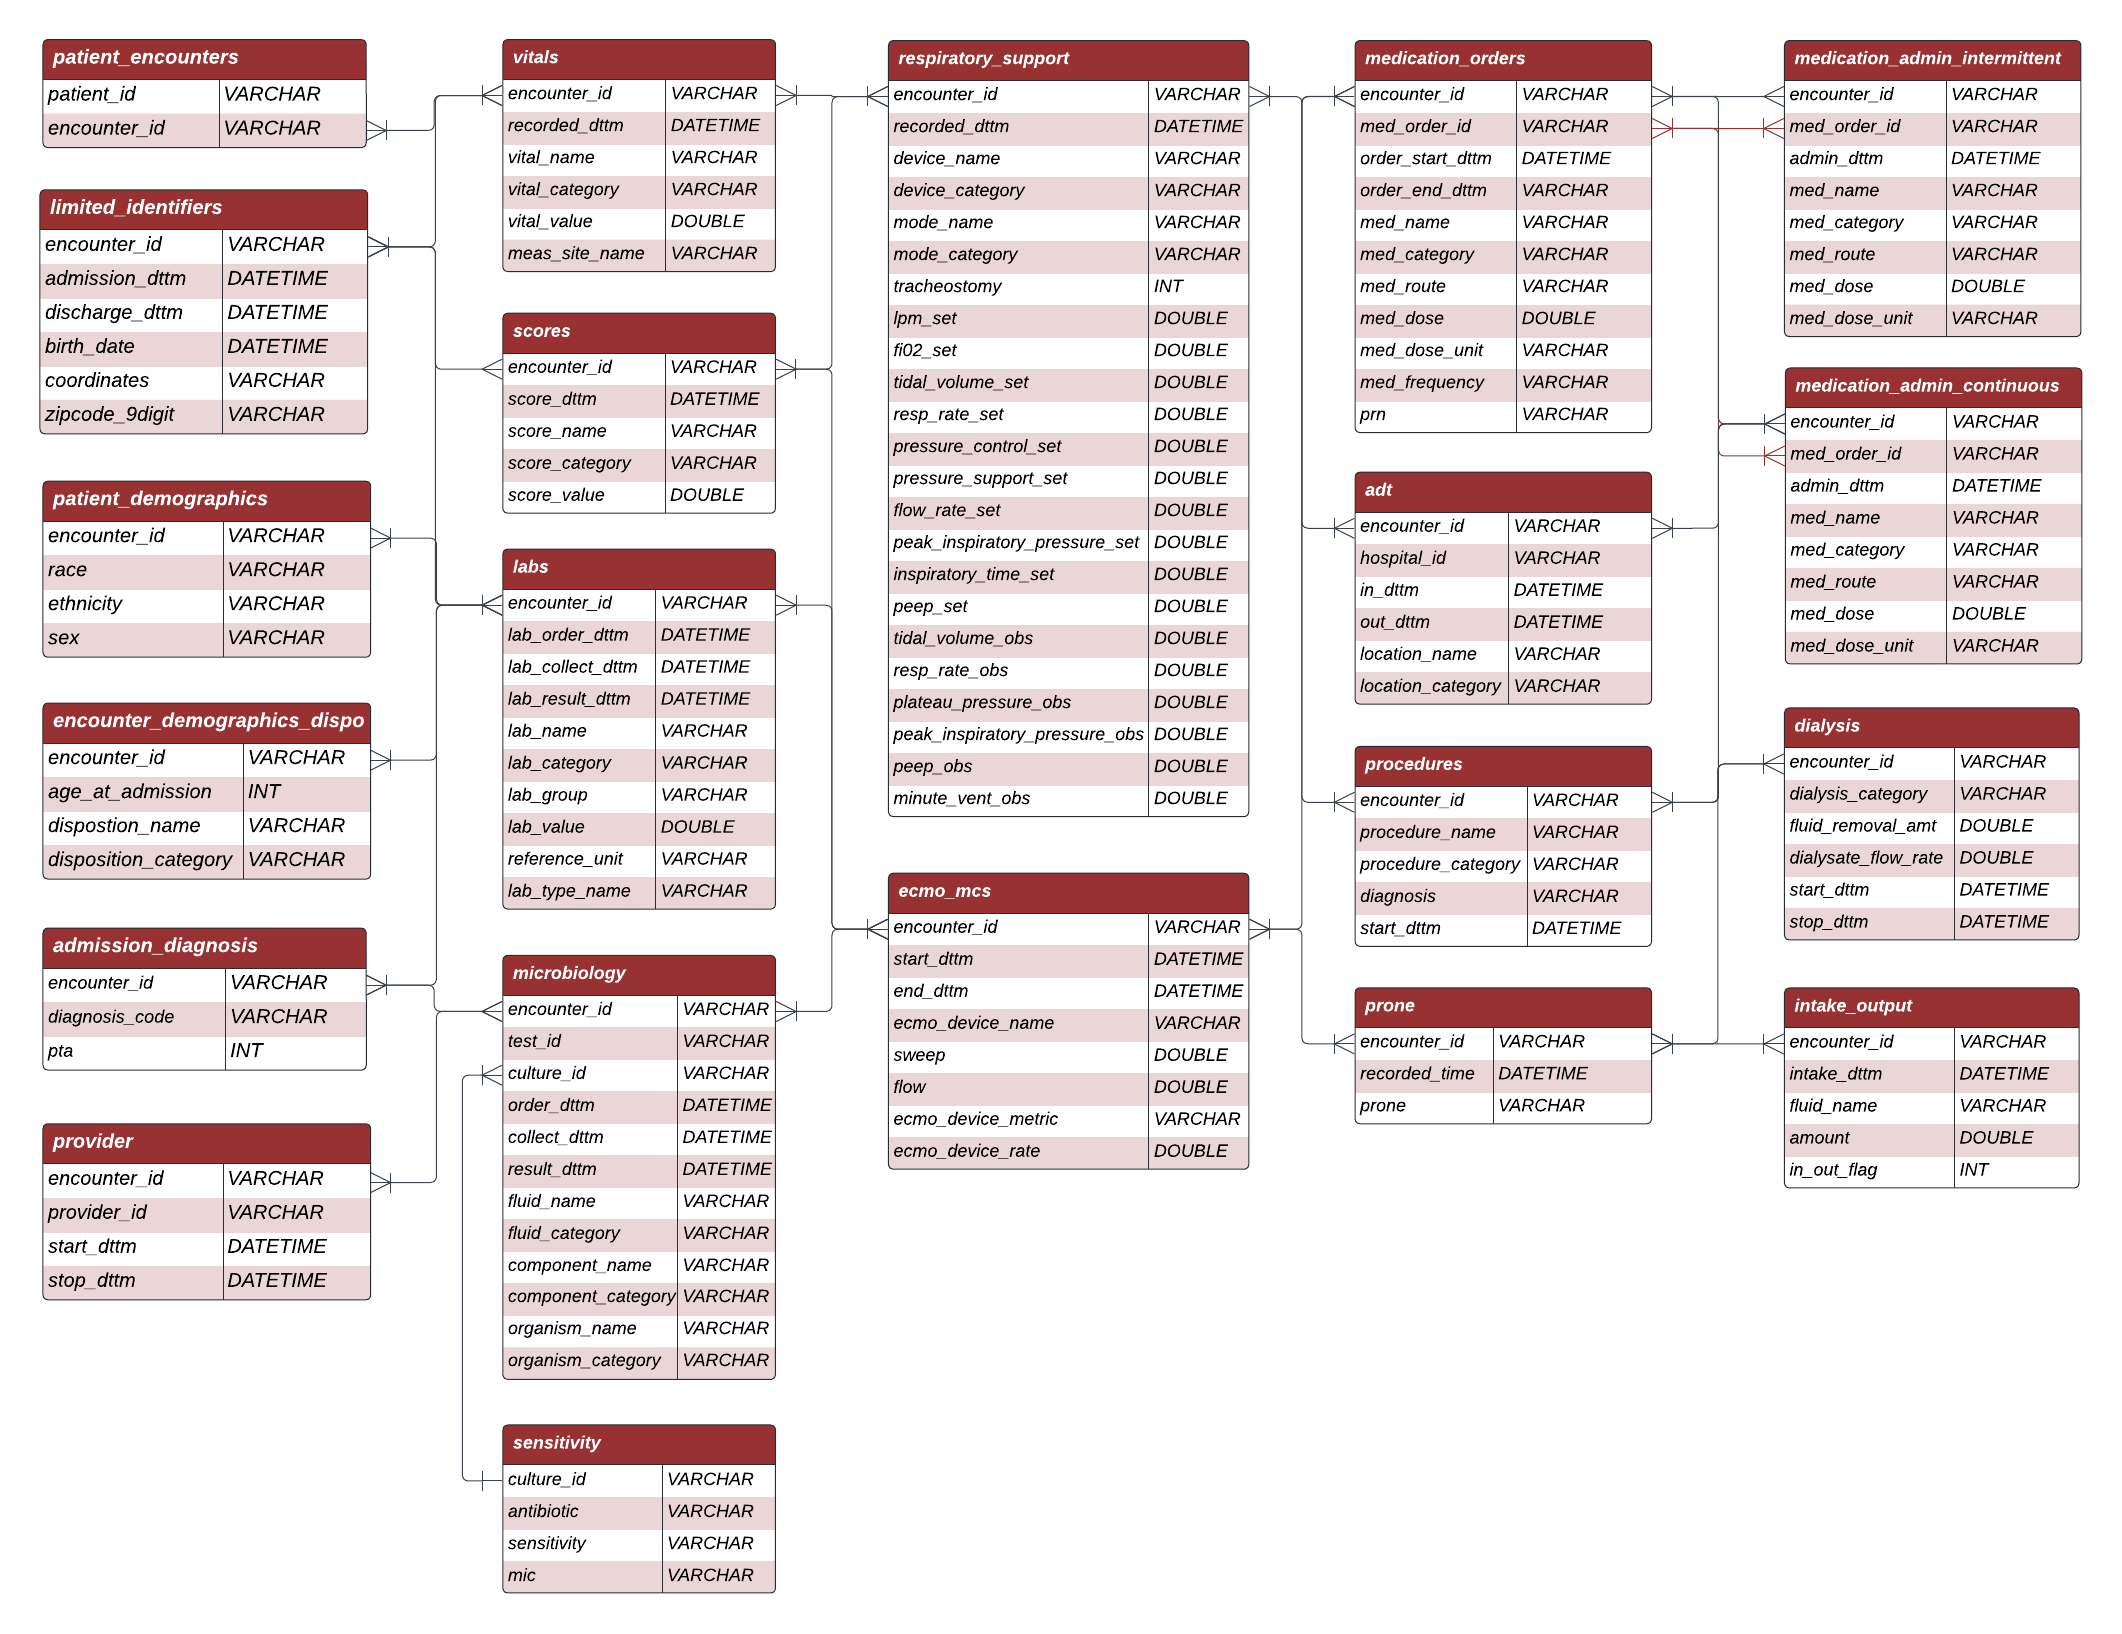
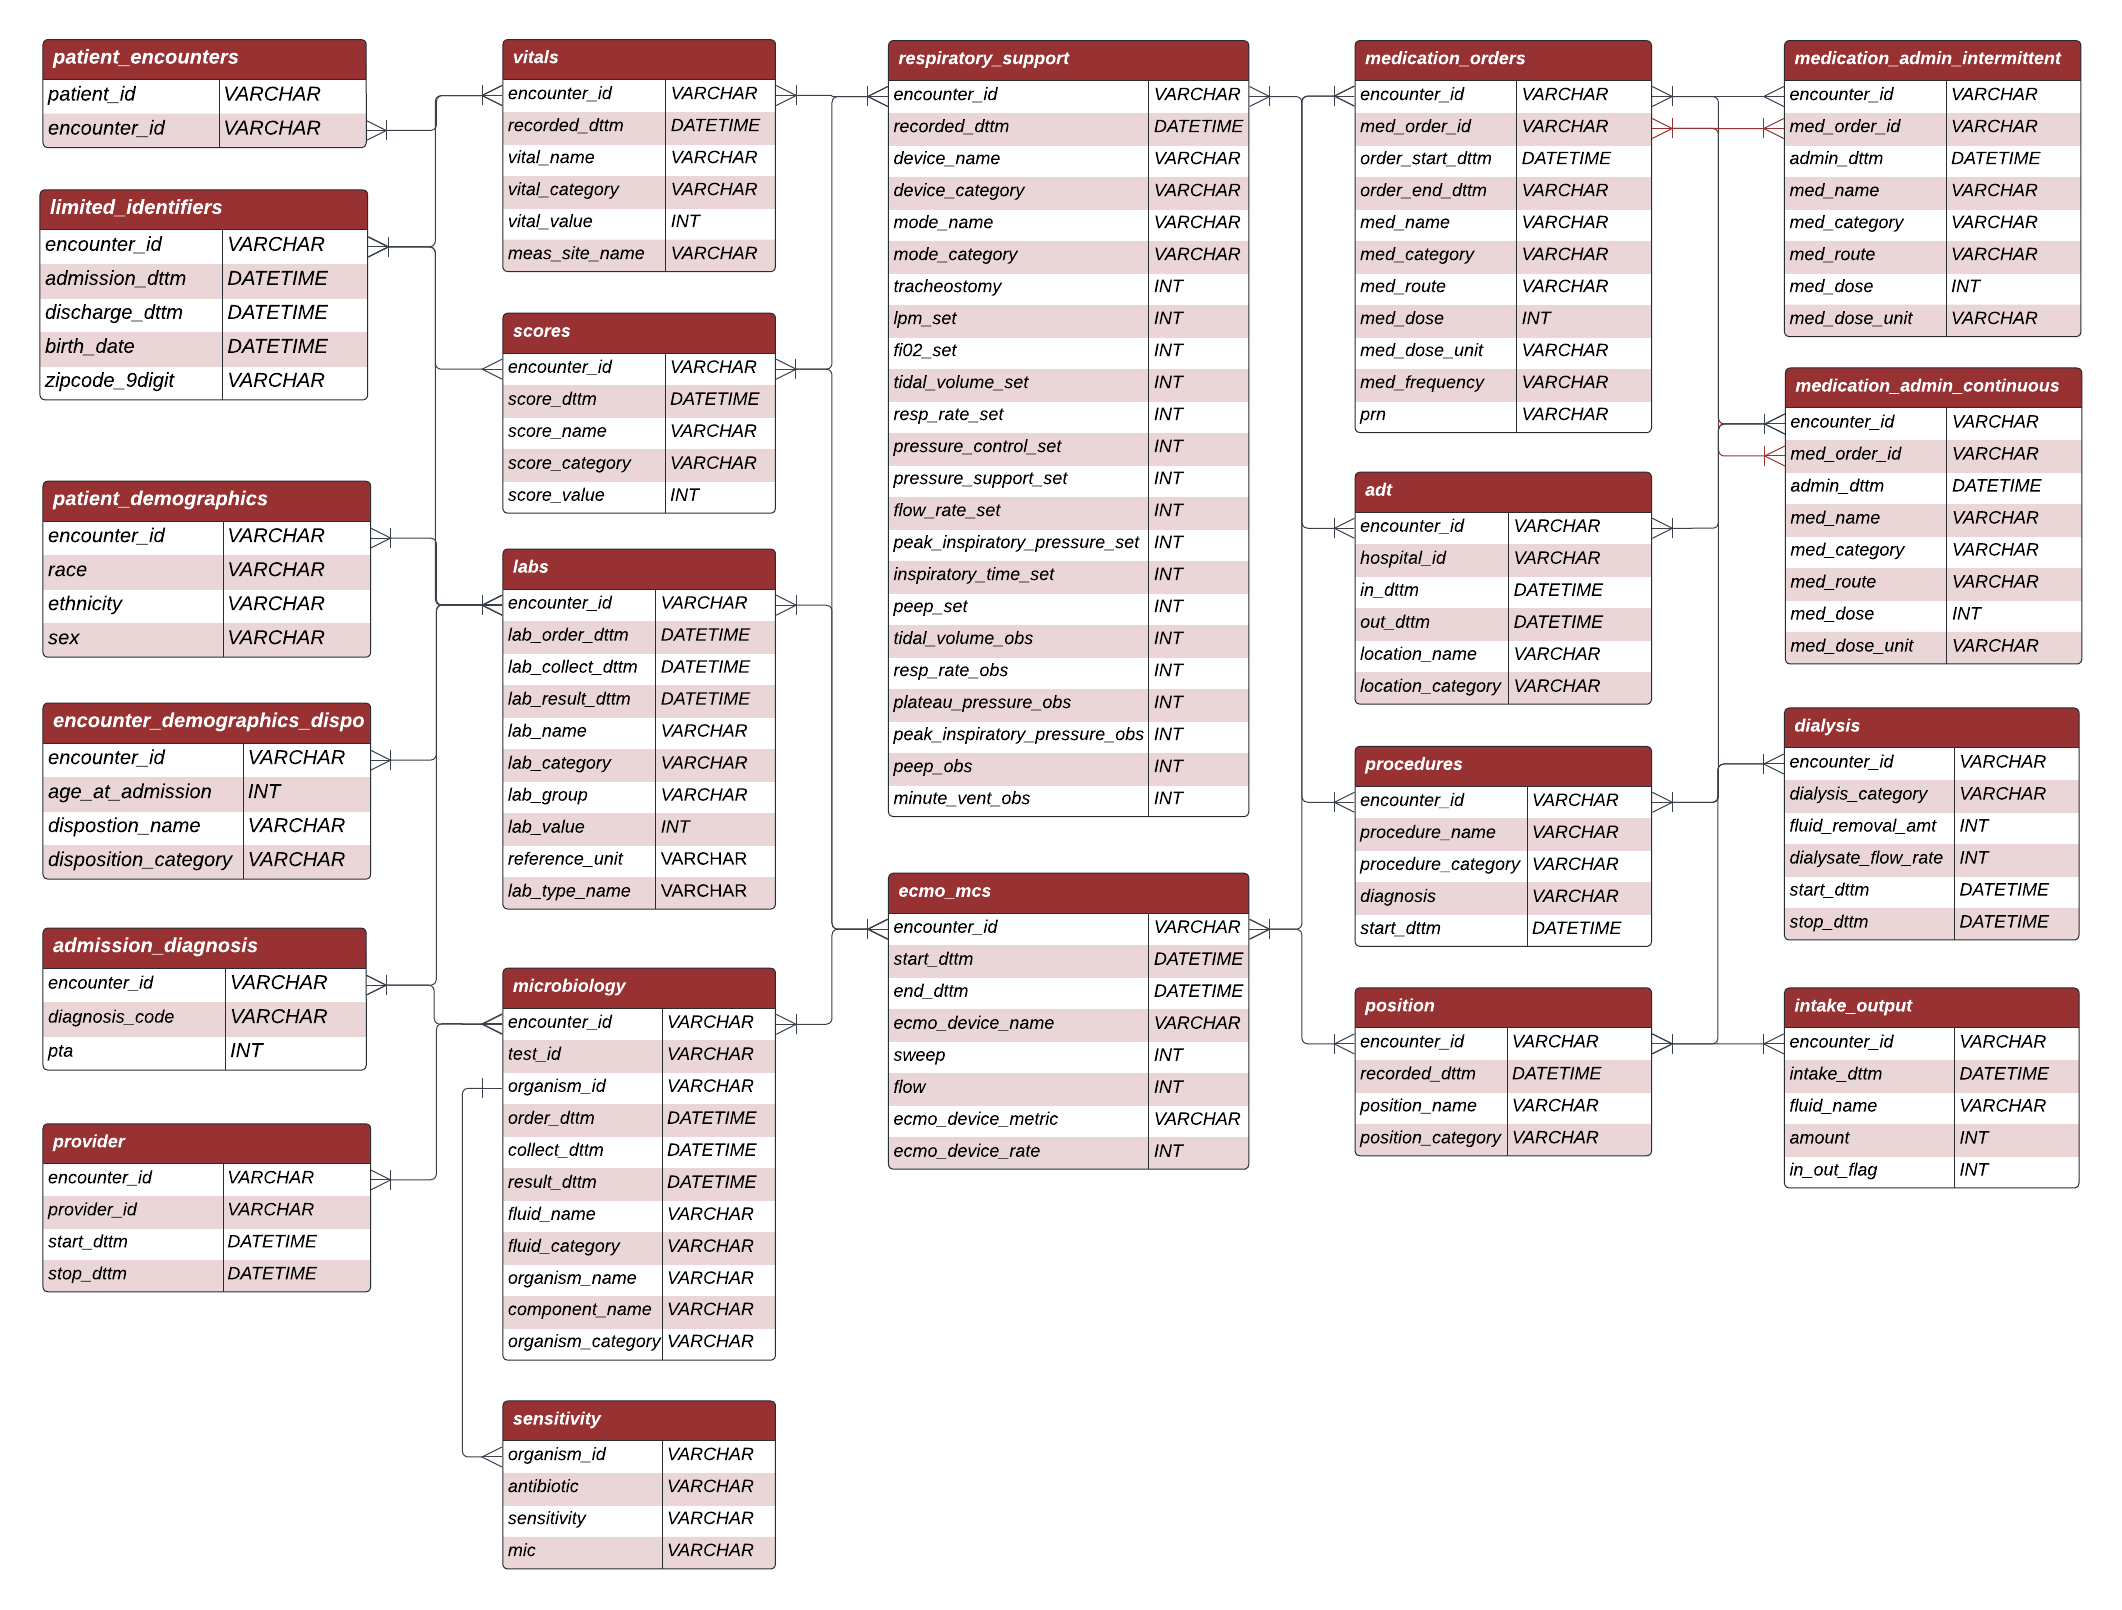
Updated ERD with new position table

Changed region(s): [[0.4043, 0.0311, 0.9953, 0.7453], [0.0, 0.0311, 0.3732, 0.9938]]

diff --git a/docs/data-dictionary.html b/docs/data-dictionary.html
@@ -189,12 +189,12 @@ ul.task-list li input[type="checkbox"] {
 <tbody>
 <tr class="odd">
 <td>patient_id</td>
-<td>INT</td>
+<td>VARCHAR</td>
 <td>ID variable for each patient. Every patient assigned a unique identifier is presumed to be a distinct individual</td>
 </tr>
 <tr class="even">
 <td>encounter_id</td>
-<td>INT</td>
+<td>VARCHAR</td>
 <td>ID variable for each patient encounter (a given patient can have multiple encounters). Each encounter_id represents a unique hospitalization for a patient, capturing the entire duration of the hospital stay. This is the primary key for most other tables</td>
 </tr>
 </tbody>
@@ -257,7 +257,7 @@ ul.task-list li input[type="checkbox"] {
 <tbody>
 <tr class="odd">
 <td>encounter_id</td>
-<td>INT</td>
+<td>VARCHAR</td>
 <td>ID variable for each patient encounter</td>
 <td></td>
 </tr>
@@ -351,7 +351,7 @@ ul.task-list li input[type="checkbox"] {
 <tbody>
 <tr class="odd">
 <td>encounter_id</td>
-<td>INT</td>
+<td>VARCHAR</td>
 <td>ID variable for each patient encounter. Each encounter_id represents a unique hospitalization for a patient, capturing the entire duration of the hospital stay</td>
 </tr>
 <tr class="even">
@@ -462,7 +462,7 @@ ul.task-list li input[type="checkbox"] {
 <tbody>
 <tr class="odd">
 <td>encounter_id</td>
-<td>INT</td>
+<td>VARCHAR</td>
 <td>ID variable for each patient encounter.</td>
 <td></td>
 </tr>
@@ -570,7 +570,7 @@ ul.task-list li input[type="checkbox"] {
 <tbody>
 <tr class="odd">
 <td>encounter_id</td>
-<td>INT</td>
+<td>VARCHAR</td>
 <td>ID variable for each patient encounter</td>
 <td></td>
 </tr>
@@ -692,7 +692,7 @@ ul.task-list li input[type="checkbox"] {
 <tbody>
 <tr class="odd">
 <td>encounter_id</td>
-<td>INT</td>
+<td>VARCHAR</td>
 <td>ID variable for each patient encounter.</td>
 <td></td>
 </tr>
@@ -816,7 +816,7 @@ ul.task-list li input[type="checkbox"] {
 <tbody>
 <tr class="odd">
 <td>encounter_id</td>
-<td>INT</td>
+<td>VARCHAR</td>
 <td>ID variable for each patient encounter</td>
 <td></td>
 </tr>
@@ -997,7 +997,7 @@ ul.task-list li input[type="checkbox"] {
 <tbody>
 <tr class="odd">
 <td>encounter_id</td>
-<td>INT</td>
+<td>VARCHAR</td>
 <td>ID variable for each patient encounter</td>
 <td></td>
 </tr>
@@ -1440,7 +1440,7 @@ ul.task-list li input[type="checkbox"] {
 <tbody>
 <tr class="odd">
 <td>encounter_id</td>
-<td>INT</td>
+<td>VARCHAR</td>
 <td>ID variable for each patient encounter</td>
 <td></td>
 </tr>
@@ -1599,7 +1599,7 @@ ul.task-list li input[type="checkbox"] {
 <tbody>
 <tr class="odd">
 <td>encounter_id</td>
-<td>INT</td>
+<td>VARCHAR</td>
 <td>ID variable for each patient encounter</td>
 <td></td>
 </tr>
@@ -1729,7 +1729,7 @@ ul.task-list li input[type="checkbox"] {
 <tbody>
 <tr class="odd">
 <td>encounter_id</td>
-<td>INT</td>
+<td>VARCHAR</td>
 <td>ID variable for each patient encounter.</td>
 <td></td>
 </tr>
